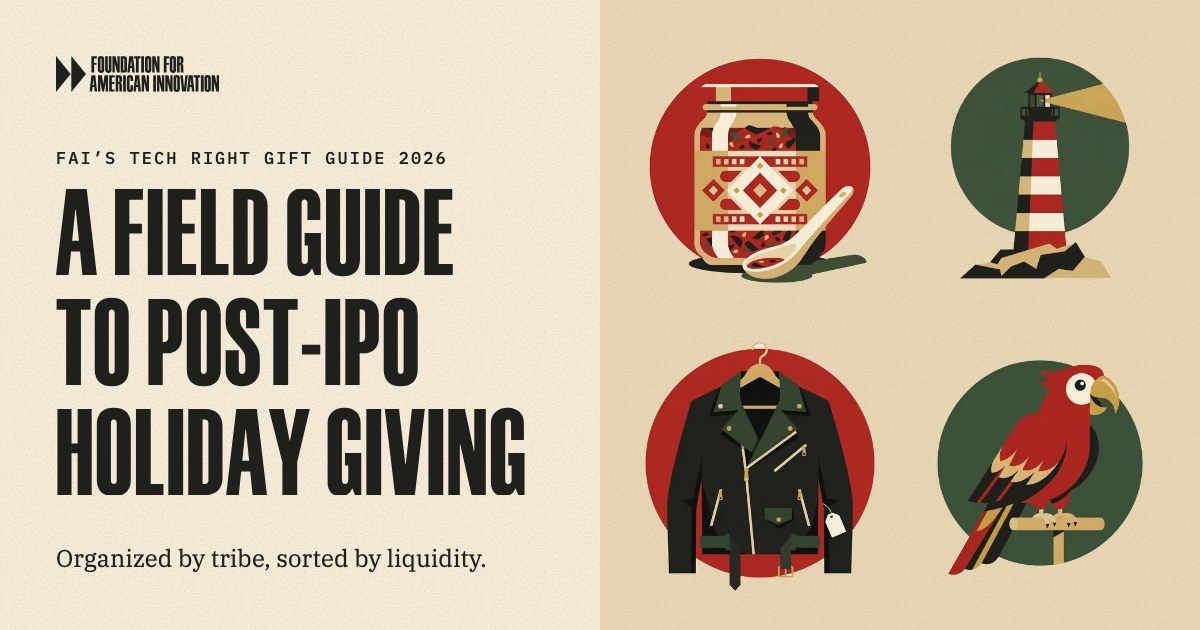
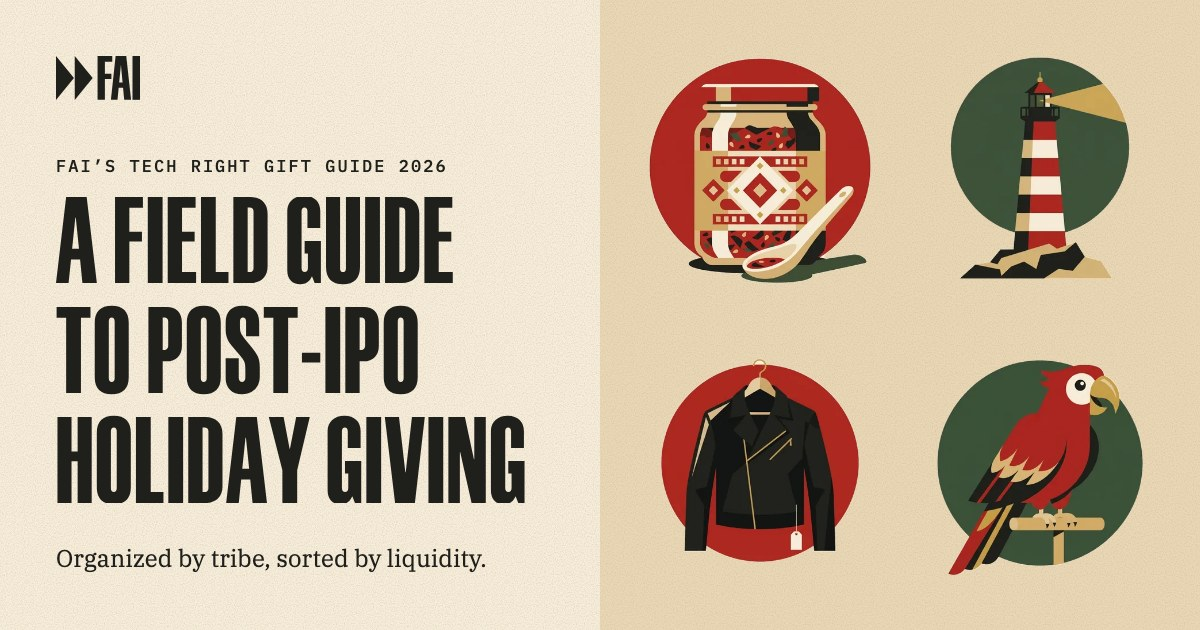
Use the FAI acronym on the Christmas share card

diff --git a/worker/index.js b/worker/index.js
@@ -42,7 +42,7 @@ const XMAS_META = {
   "og:title": "A Field Guide to Post-IPO Holiday Giving",
   "og:description": "FAI’s Tech Right Gift Guide 2026, organized by tribe and sorted by liquidity.",
   "og:url": "/christmas",                   // made absolute with the serving host, so staging previews work
-  "og:image": "/og-christmas.jpg?v=1",
+  "og:image": "/og-christmas.jpg?v=2",
   "og:image:alt": "FAI’s Tech Right Gift Guide 2026: A field guide to post-IPO holiday giving, with drawings of a jar of chili crisp, a lighthouse, a leather jacket and a parrot."
 };
 const XMAS_ICONS = { 'link[rel="icon"][type="image/svg+xml"]': "favicon-christmas.svg?v=1", 'link[rel="icon"][sizes]': "favicon-christmas-32.png?v=1", 'link[rel="apple-touch-icon"]': "apple-touch-icon-christmas.png?v=1" };
